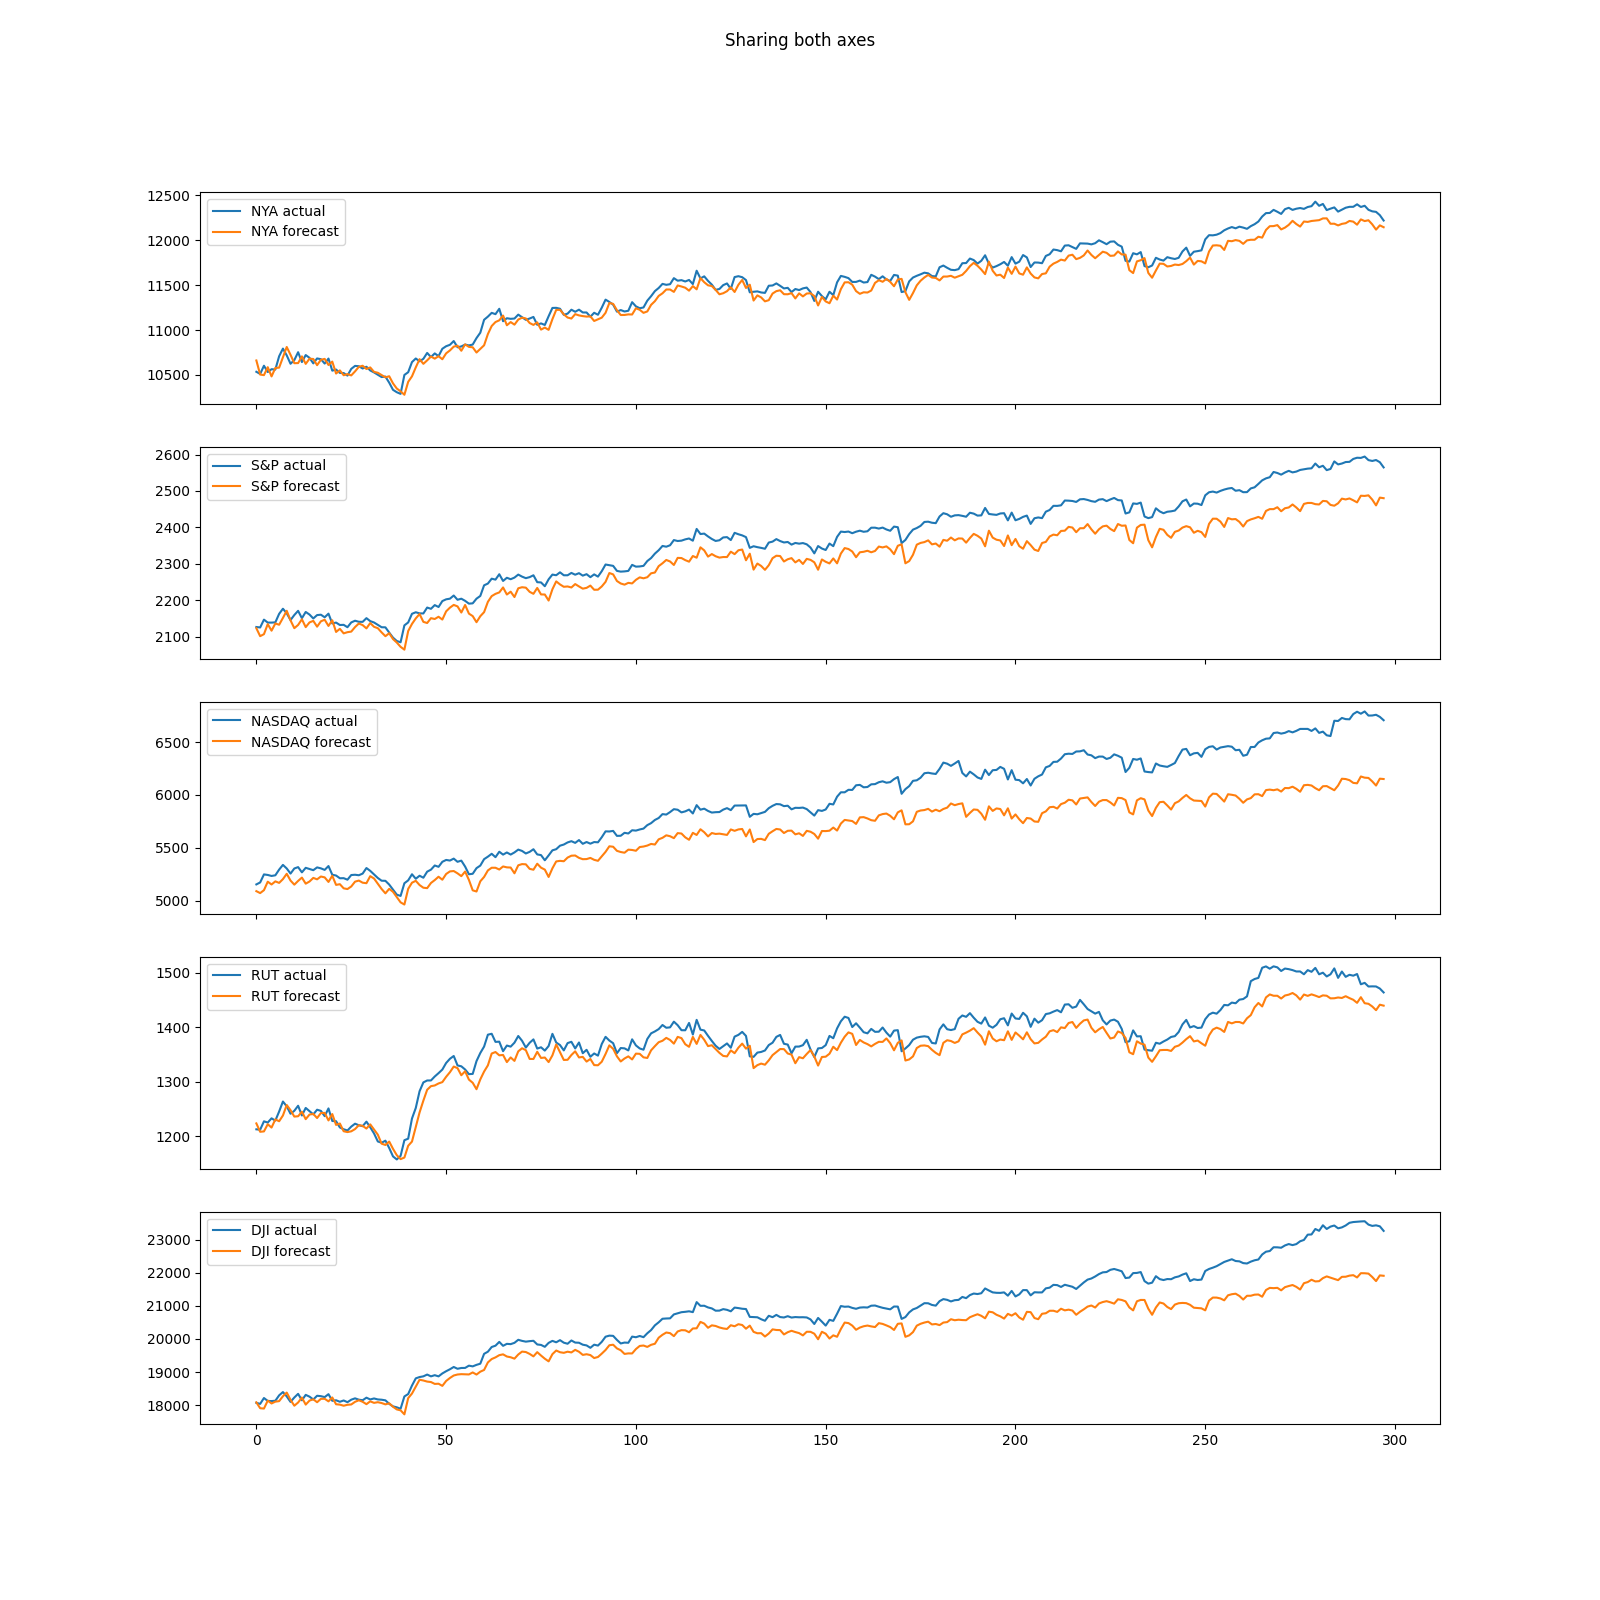
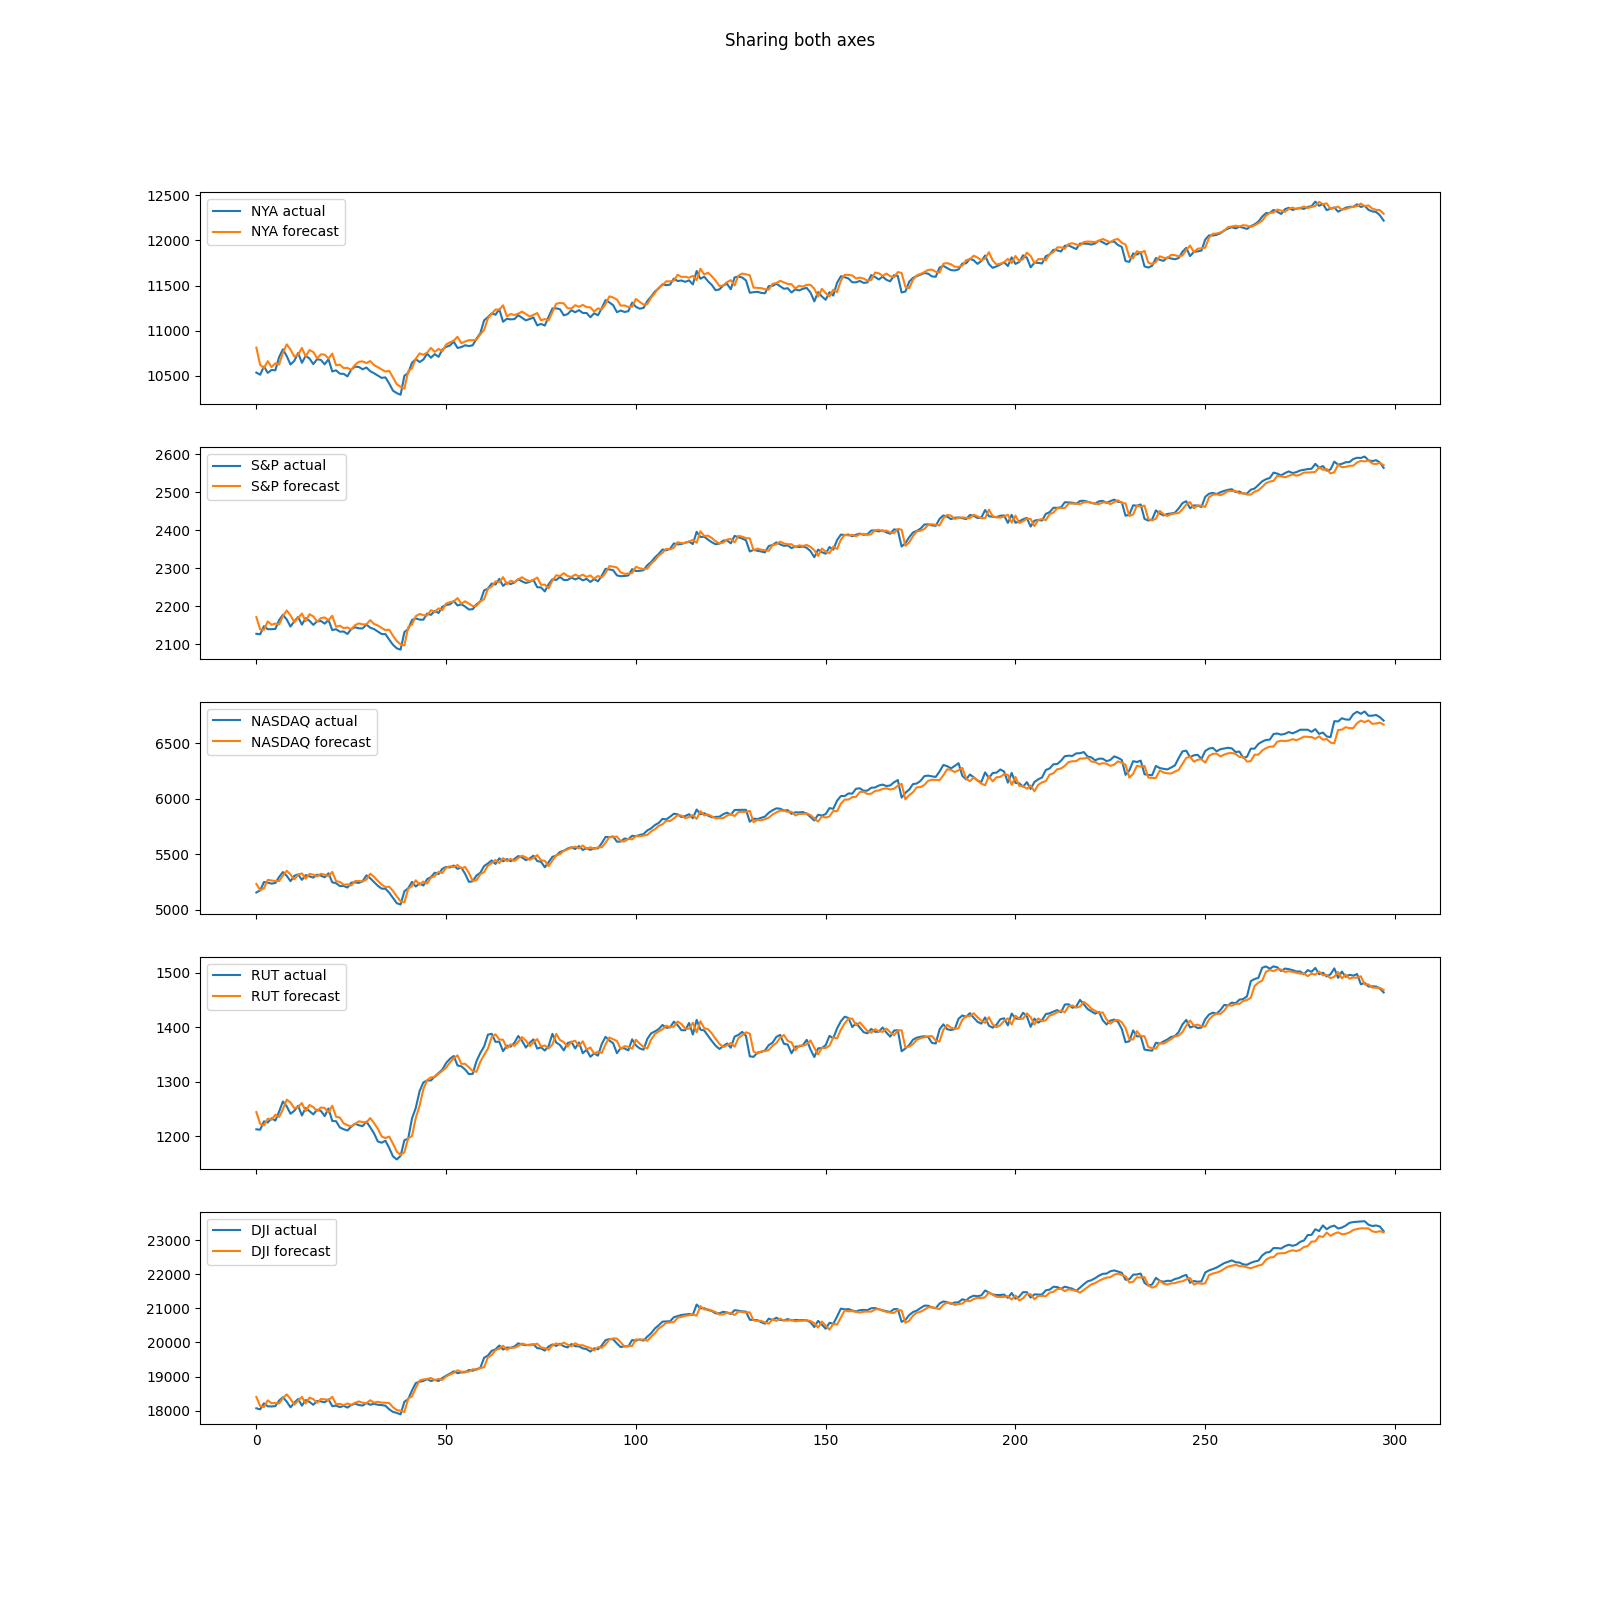
show results with training

diff --git a/LSTM/2d_LSTM.py b/LSTM/2d_LSTM.py
@@ -50,22 +50,22 @@ def preprocess(data_array: np.ndarray, train_size: float, val_size: float, stock
     )
     # plot_raw_data(data_array, num_train, num_val, num_time_steps, stock)
     train_array = data_array[:num_train]
-    mean = train_array.mean(axis=0)
-    std = train_array.std(axis=0)
+    min = train_array.min(axis=0)
+    max = train_array.max(axis=0)
     print(stock)
-    print(mean)
-    print(std)
+    print(min)
+    print(max)
 
-    train_array = (train_array - mean) / std
-    val_array = (data_array[num_train: (num_train + num_val)] - mean) / std
-    test_array = (data_array[(num_train + num_val):] - mean) / std
+    train_array = (train_array - min) / (max-min)
+    val_array = (data_array[num_train: (num_train + num_val)] - min) / (max-min)
+    test_array = (data_array[(num_train + num_val):] - min) / (max-min)
 
     # print(stock)
     # print(f"train set size: {train_array.shape}")
     # print(f"validation set size: {val_array.shape}")
     # print(f"test set size: {test_array.shape}")
 
-    return train_array, val_array, test_array, np.array(mean)[0], np.array(std)[0]
+    return train_array, val_array, test_array, np.array(min)[0], np.array(max)[0]
 
 
 def create_tf_dataset(
@@ -151,8 +151,8 @@ def LSTM_model(
 
 def plot_predicted_result(y, y_pred, stock, axes, i, mean, std):
     # plt.figure(figsize=(18, 6))
-    axes[i].plot( y[:, 0]*std + mean)
-    axes[i].plot( y_pred[:, 0]*std + mean)
+    axes[i].plot( y[:, 0]*(std-mean)+mean)
+    axes[i].plot( y_pred[:, 0]*(std-mean)+mean)
     axes[i].legend(["{} actual".format(stock), "{} forecast".format(stock)])
     # plt.title(stock)
     # plt.savefig(stock + "-predict-" + filepath + ".png")
@@ -202,12 +202,13 @@ def create_bar_plot(results):
     x = np.arange(len(labels))  # the label locations
     width = 0.35  # the width of the bars
     fig, ax = plt.subplots()
-    ax.bar(x - width / 2, summary_means, width, label='MAE')
-    ax.bar(x + width / 2, base_means, width, label='RMSE')
+    ax.grid(True, axis='y', zorder=0)
+    ax.bar(x - width / 2, summary_means, width, label='MAE', zorder=10)
+    ax.bar(x + width / 2, base_means, width, label='RMSE', zorder=10)
 
     # Add some text for labels, title and custom x-axis tick labels, etc.
     print(summary_means + base_means)
-    ax.set_yticks(np.arange(0, max([*summary_means, *base_means]) + 0.1, 0.1))
+    ax.set_yticks(np.arange(0, max([*summary_means, *base_means]) + 0.005, 0.005))
     # ax.set_title('Scores by group and gender')
     ax.set_xticks(x)
     ax.set_xticklabels(labels)
@@ -217,7 +218,7 @@ def create_bar_plot(results):
 
 
 train_size, val_size = 0.6, 0.2
-features = list(range(0, 4))  # +[6,10,14,17,19,31,37,54,61,65]
+features = list(range(0, 1))  # +[6,10,14,17,19,31,37,54,61,65]
 # features = range(0, 1) #INPUT
 print(features)
 number_feature = len(features)
@@ -225,8 +226,8 @@ print(number_feature)
 batch_size = 128
 input_sequence_length = 60
 forecast_horizon = 1
-epochs = 100
-add_all_datasets_data = True
+epochs = 500
+add_all_datasets_data = False
 
 filepath = "{}-{}-{}-{}-{}".format(
     input_sequence_length,

diff --git a/LSTM/2d_LSTM1.py b/LSTM/2d_LSTM1.py
@@ -51,22 +51,22 @@ def preprocess(data_array: np.ndarray, train_size: float, val_size: float, stock
     )
     # plot_raw_data(data_array, num_train, num_val, num_time_steps, stock)
     train_array = data_array[:num_train]
-    mean = train_array.mean(axis=0)
-    std = train_array.std(axis=0)
+    min = train_array.min(axis=0)
+    max = train_array.max(axis=0)
     print(stock)
-    print(mean)
-    print(std)
+    print(min)
+    print(max)
 
-    train_array = (train_array - mean) / std
-    val_array = (data_array[num_train: (num_train + num_val)] - mean) / std
-    test_array = (data_array[(num_train + num_val):] - mean) / std
+    train_array = (train_array - min) / (max-min)
+    val_array = (data_array[num_train: (num_train + num_val)] - min) / (max-min)
+    test_array = (data_array[(num_train + num_val):] - min) / (max-min)
 
     # print(stock)
     # print(f"train set size: {train_array.shape}")
     # print(f"validation set size: {val_array.shape}")
     # print(f"test set size: {test_array.shape}")
 
-    return train_array, val_array, test_array, mean, std
+    return train_array, val_array, test_array, min, max
 
 
 def create_tf_dataset(
@@ -163,10 +163,10 @@ def plot_predicted_result(y, y_pred, stock, axes, i, mean, std, train, val):
     print(test_len)
     print("test_len")
     print(test_len)
-    axes[i].plot( range(0, train_len), train*std+mean, color="#1f77b4", label="{} train".format(stock))
-    axes[i].plot(range(train_len, train_len+val_len), val*std+mean, color="#1f77b4")
-    axes[i].plot(range(train_len+val_len, train_len+val_len+test_len),  y*std+mean, color="#ff7f0e", label="{} test".format(stock))
-    axes[i].plot(range(train_len+val_len, train_len+val_len+test_len), y_pred*std+mean, color="#2ca02c", label="{} predict".format(stock))
+    axes[i].plot( range(0, train_len), train*(std-mean)+mean, color="#1f77b4", label="{} train".format(stock))
+    axes[i].plot(range(train_len, train_len+val_len), val*(std-mean)+mean, color="#1f77b4")
+    axes[i].plot(range(train_len+val_len, train_len+val_len+test_len),  y*(std-mean)+mean, color="#ff7f0e", label="{} test".format(stock))
+    axes[i].plot(range(train_len+val_len, train_len+val_len+test_len), y_pred*(std-mean)+mean, color="#2ca02c", label="{} predict".format(stock))
     axes[i].legend()
     # plt.title(stock)
     # plt.savefig(stock + "-predict-" + filepath + ".png")
